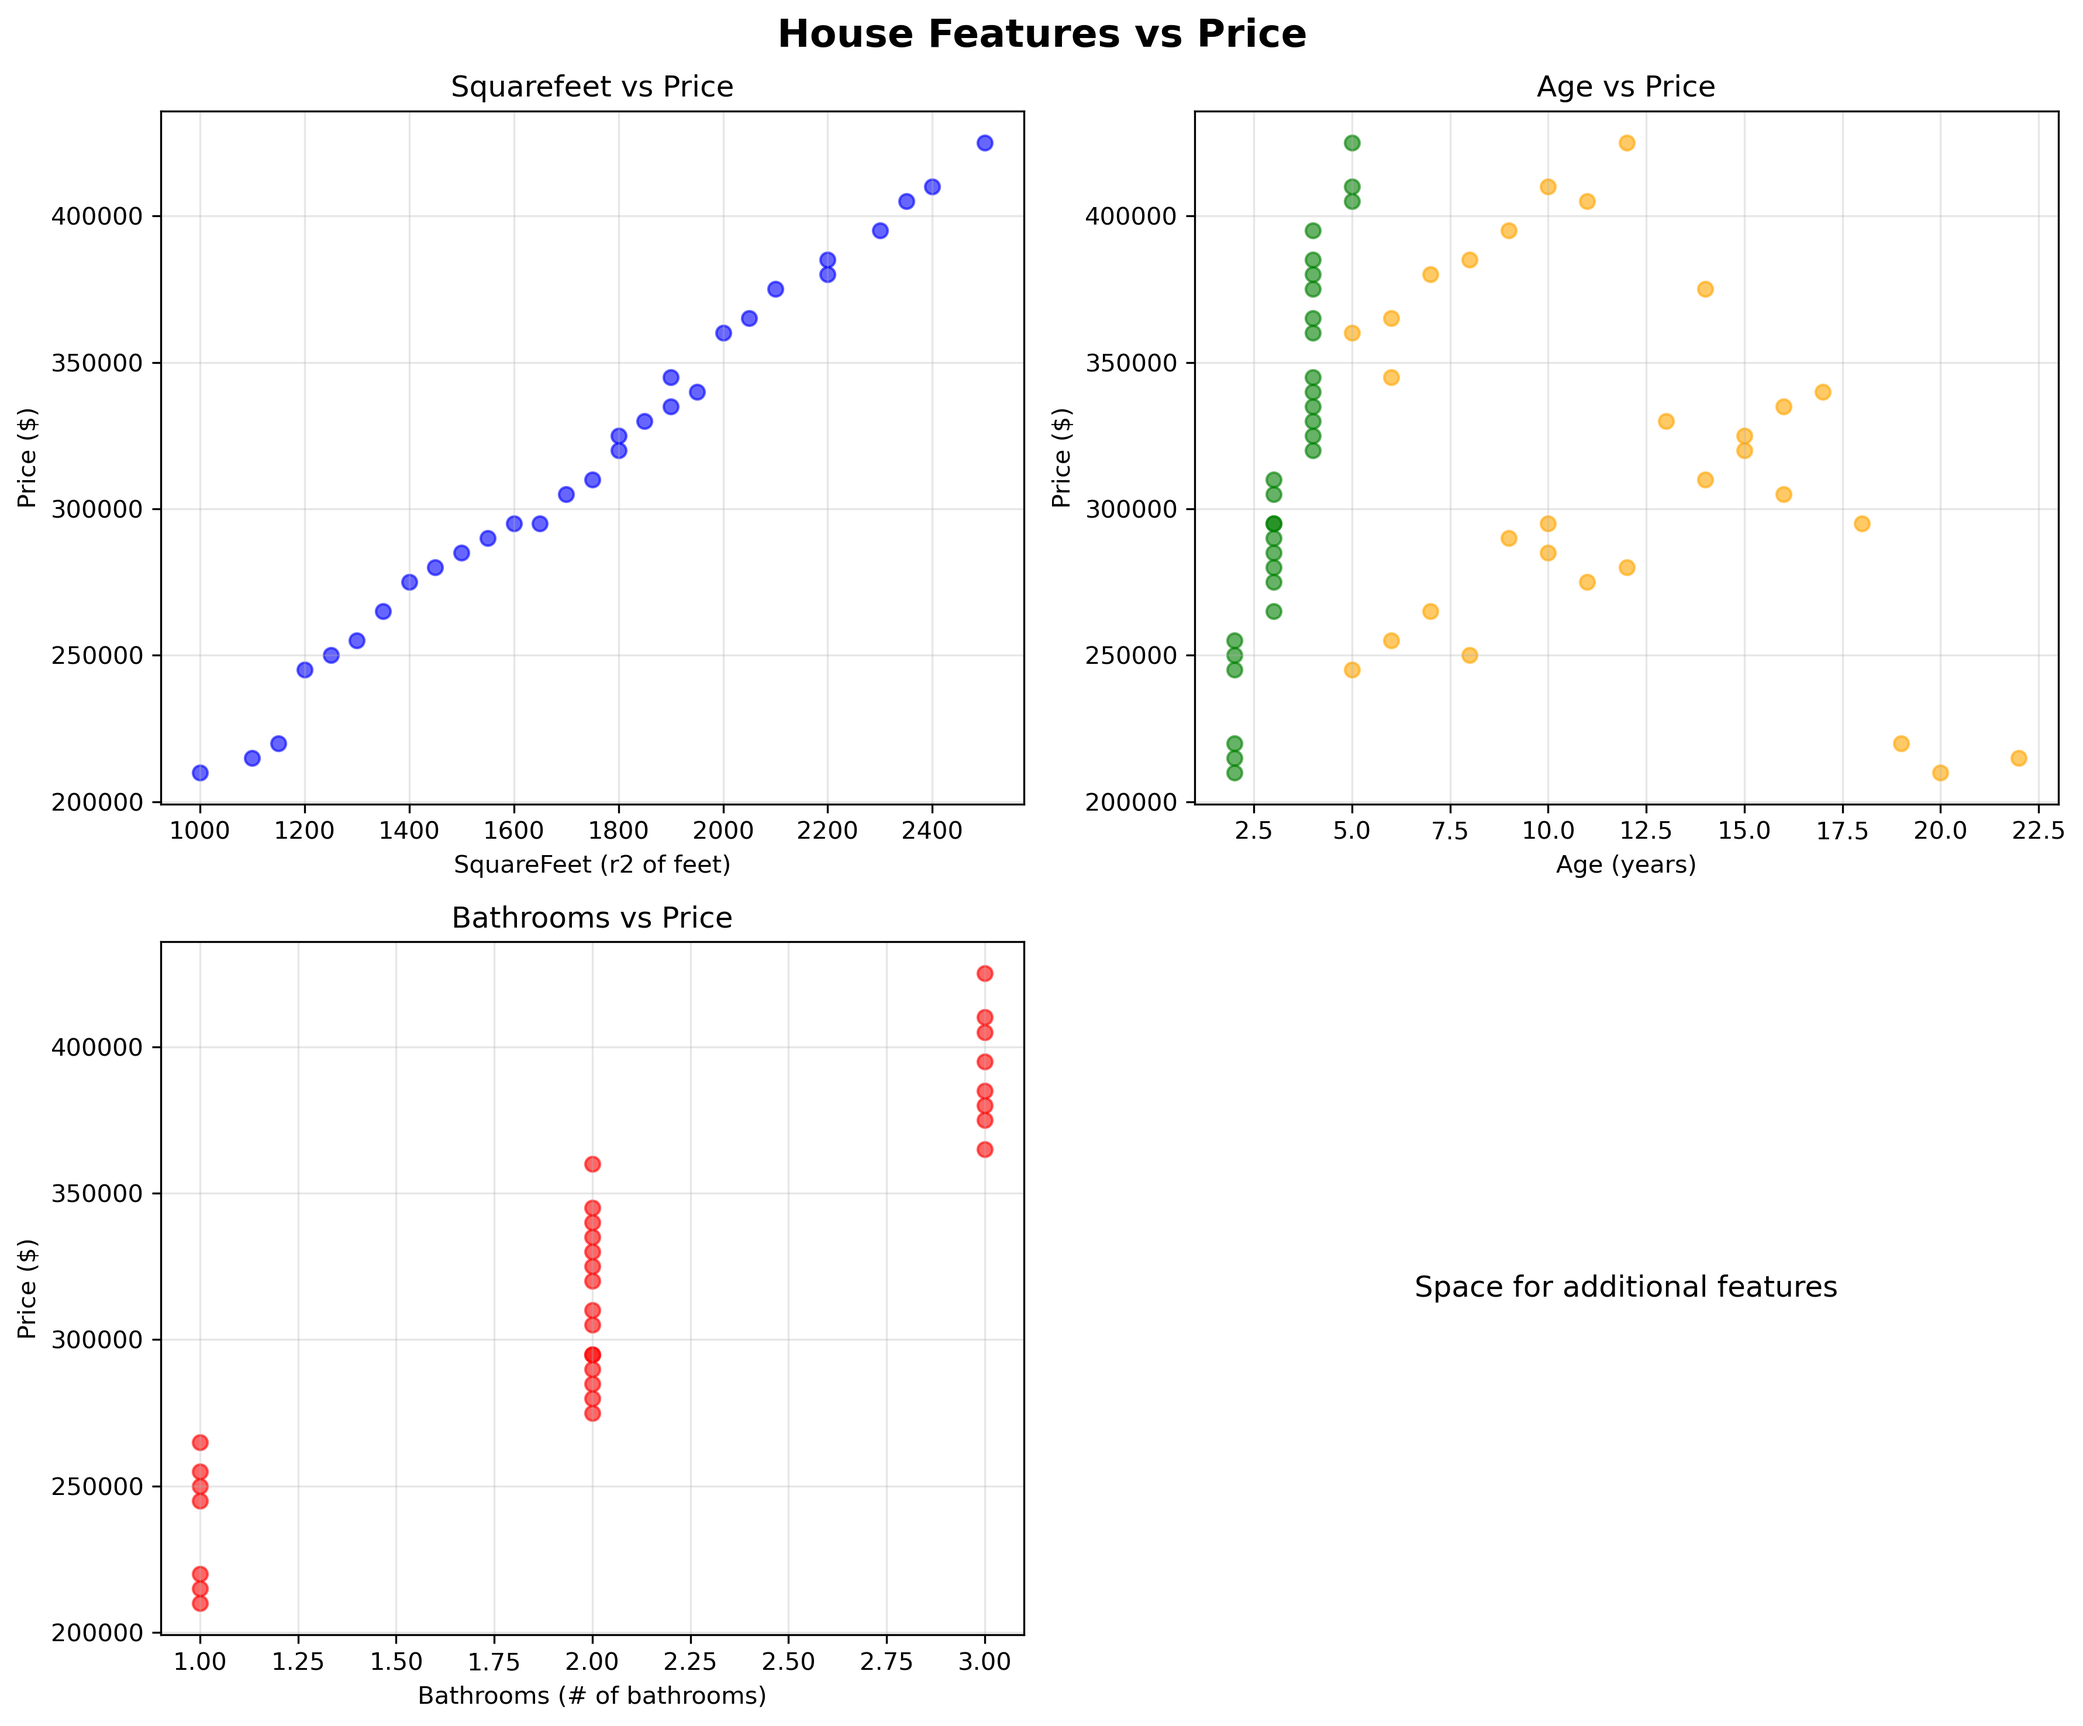
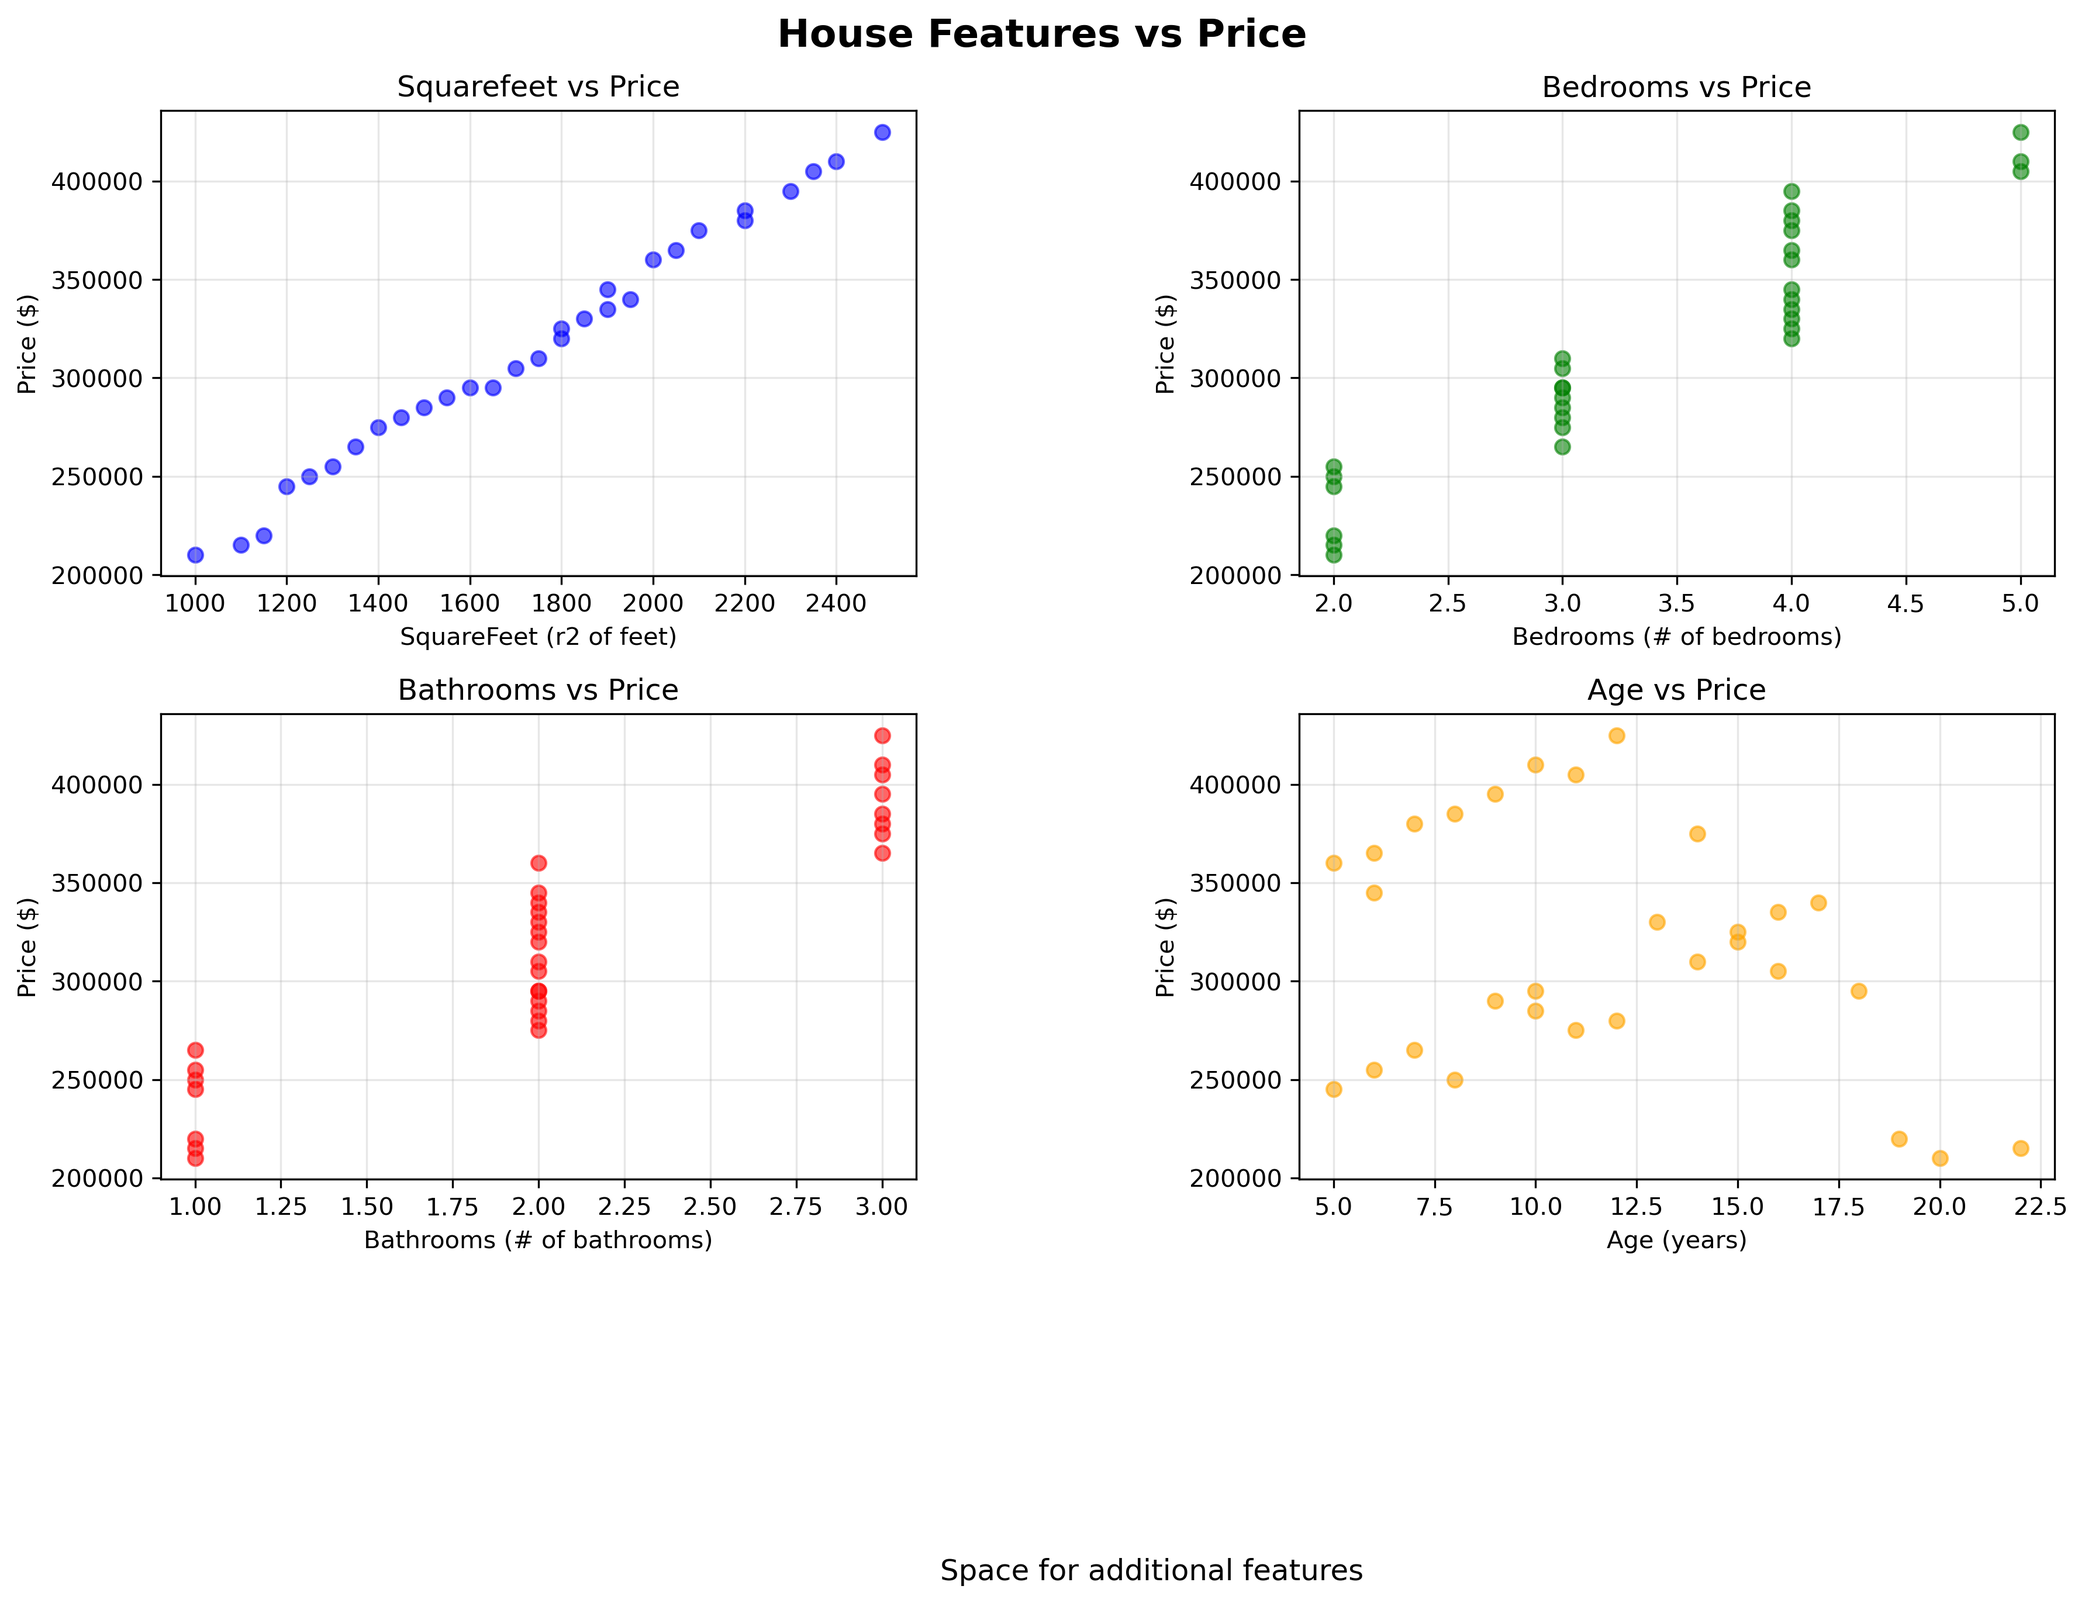
completed program and graph

diff --git a/a6_part2.py b/a6_part2.py
@@ -81,15 +81,14 @@ def visualize_features(data):
     #       - scatter plot, color='orange', alpha=0.6
     #       - labels and title
     #       - grid
-    axes[0, 1].scatter(data['Age'], data['Price'], color='orange', alpha=0.6)
-    axes[0, 1].set_xlabel('Age (years)')
-    axes[0, 1].set_ylabel('Price ($)')
-    axes[0, 1].set_title('Age vs Price')
-    axes[0, 1].grid(True, alpha=0.3)
+    axes[1, 1].scatter(data['Age'], data['Price'], color='orange', alpha=0.6)
+    axes[1, 1].set_xlabel('Age (years)')
+    axes[1, 1].set_ylabel('Price ($)')
+    axes[1, 1].set_title('Age vs Price')
+    axes[1, 1].grid(True, alpha=0.3)
     # TODO: Use plt.tight_layout() to make plots fit nicely
     axes[1, 1].text(0.5, 0.5, 'Space for additional features', 
                     ha='center', va='center', fontsize=12)
-    axes[1, 1].axis('off')
     
     plt.tight_layout()
     # TODO: Save the figure as 'feature_plots.png' with dpi=300
